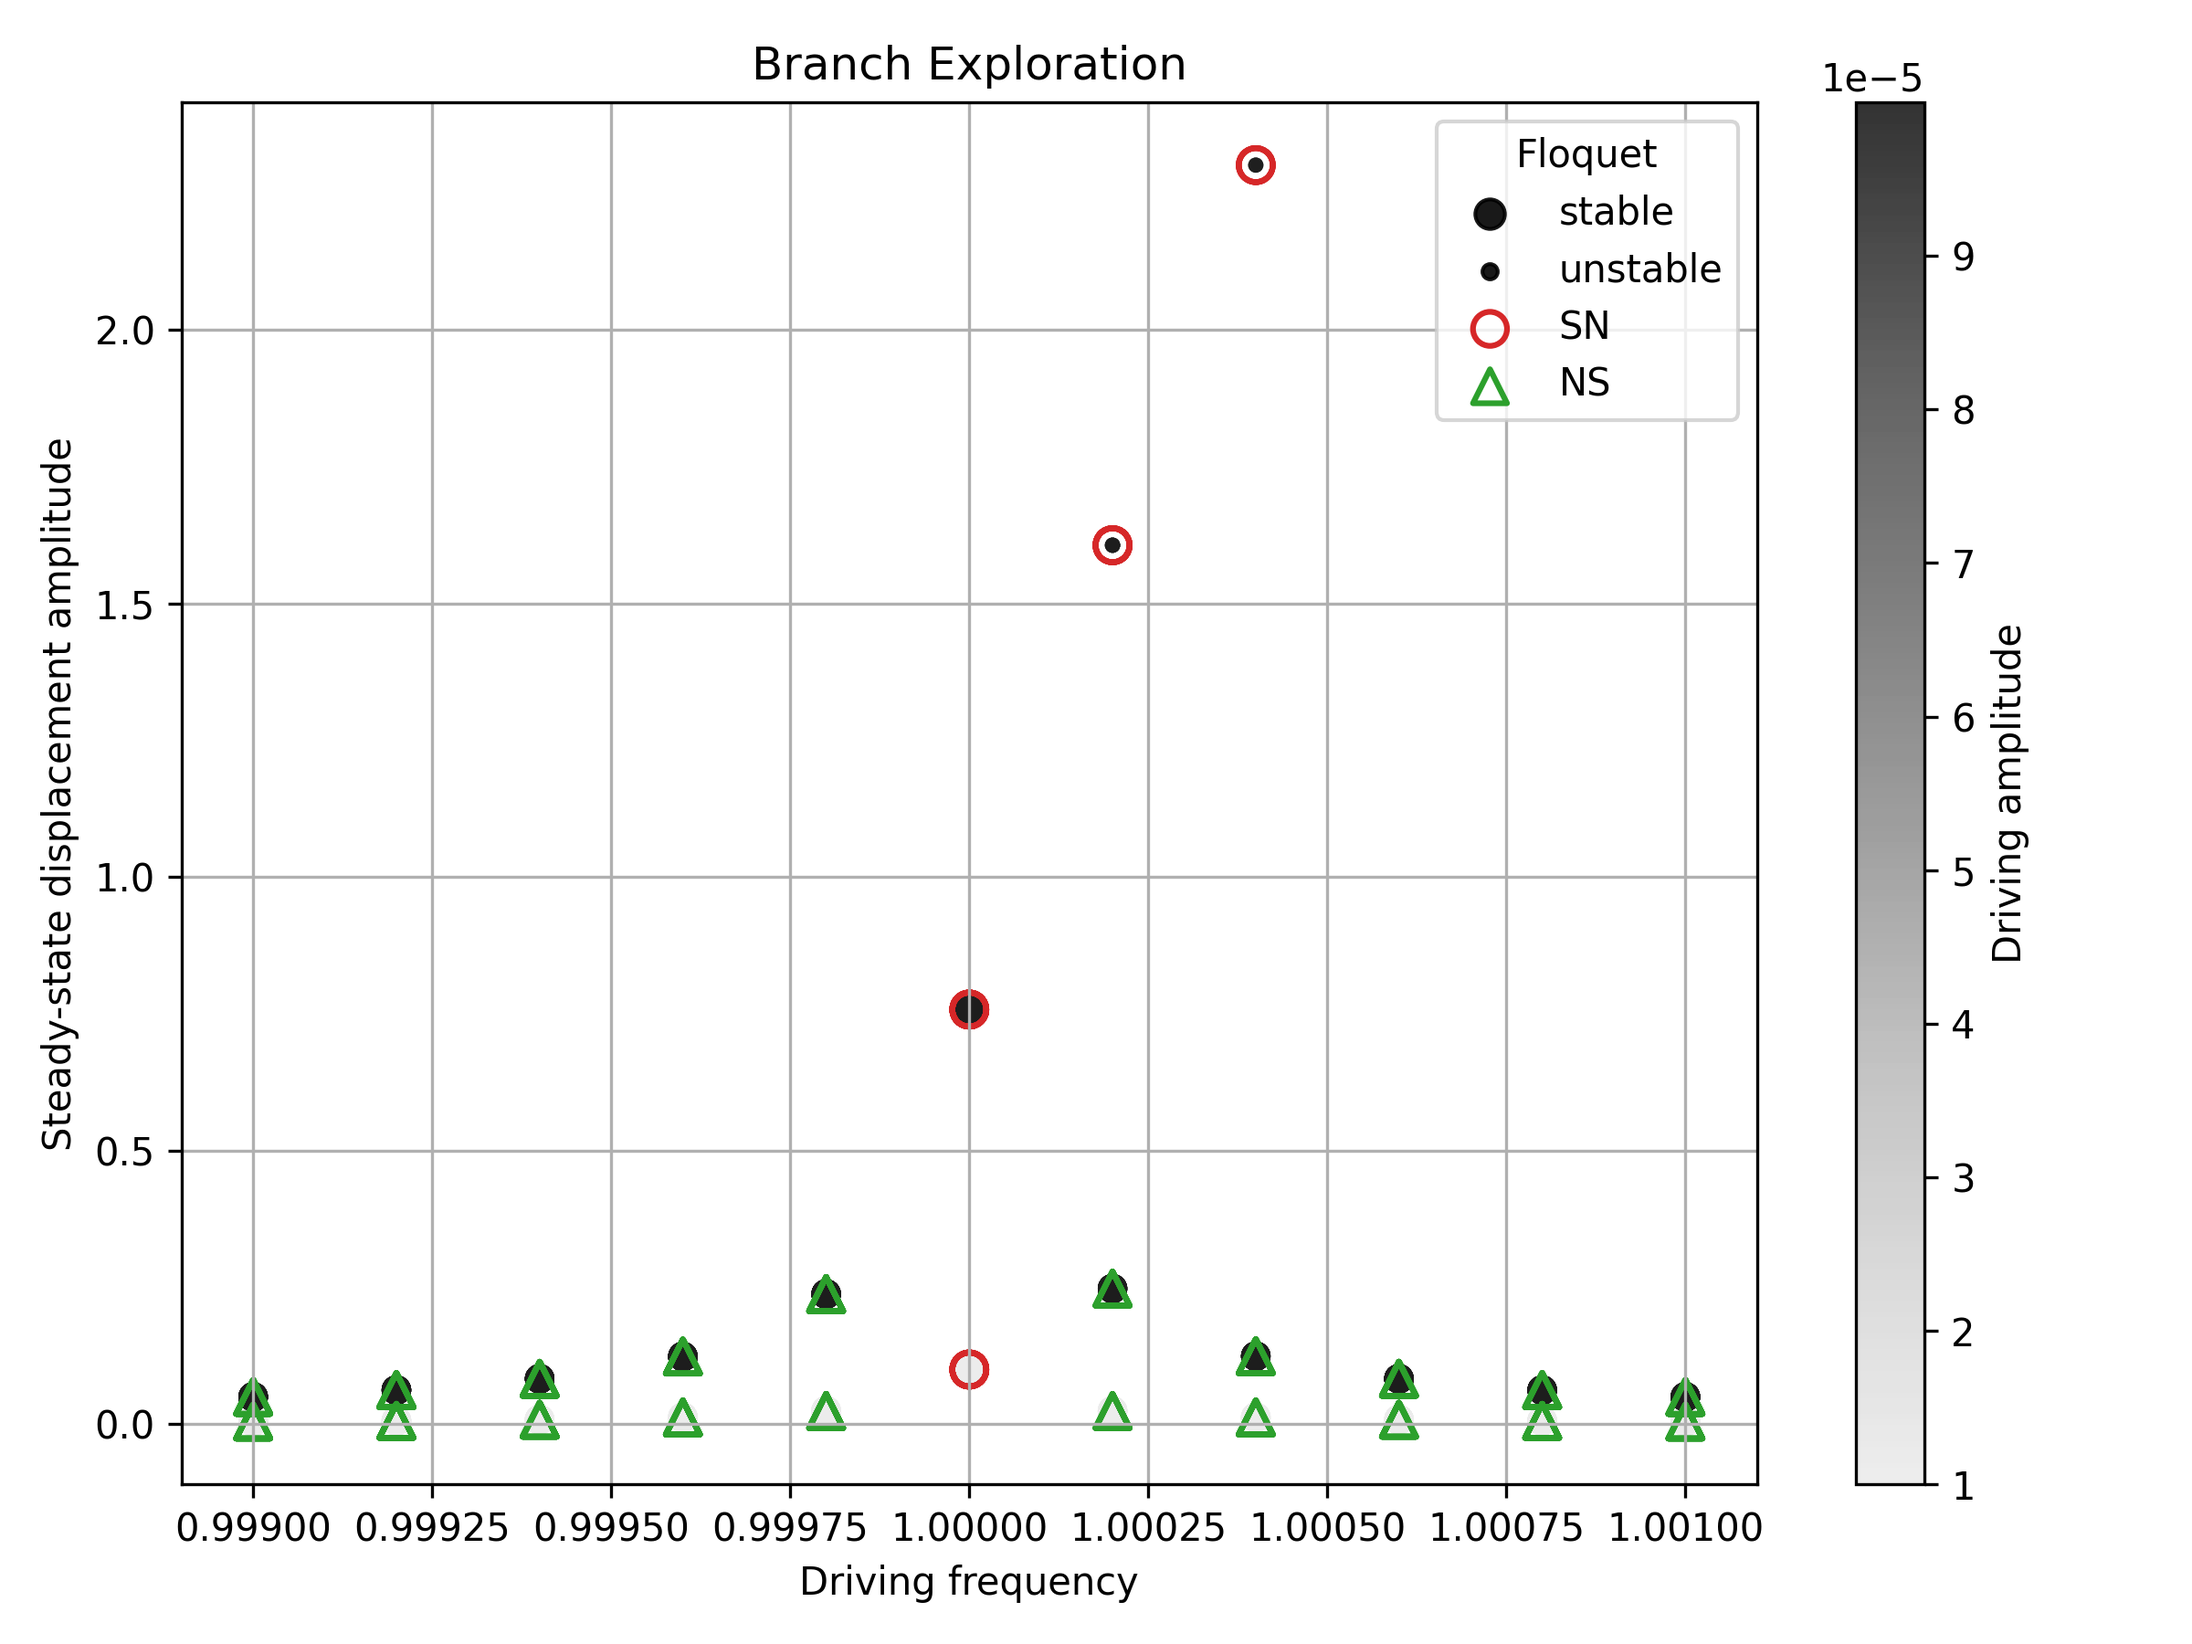
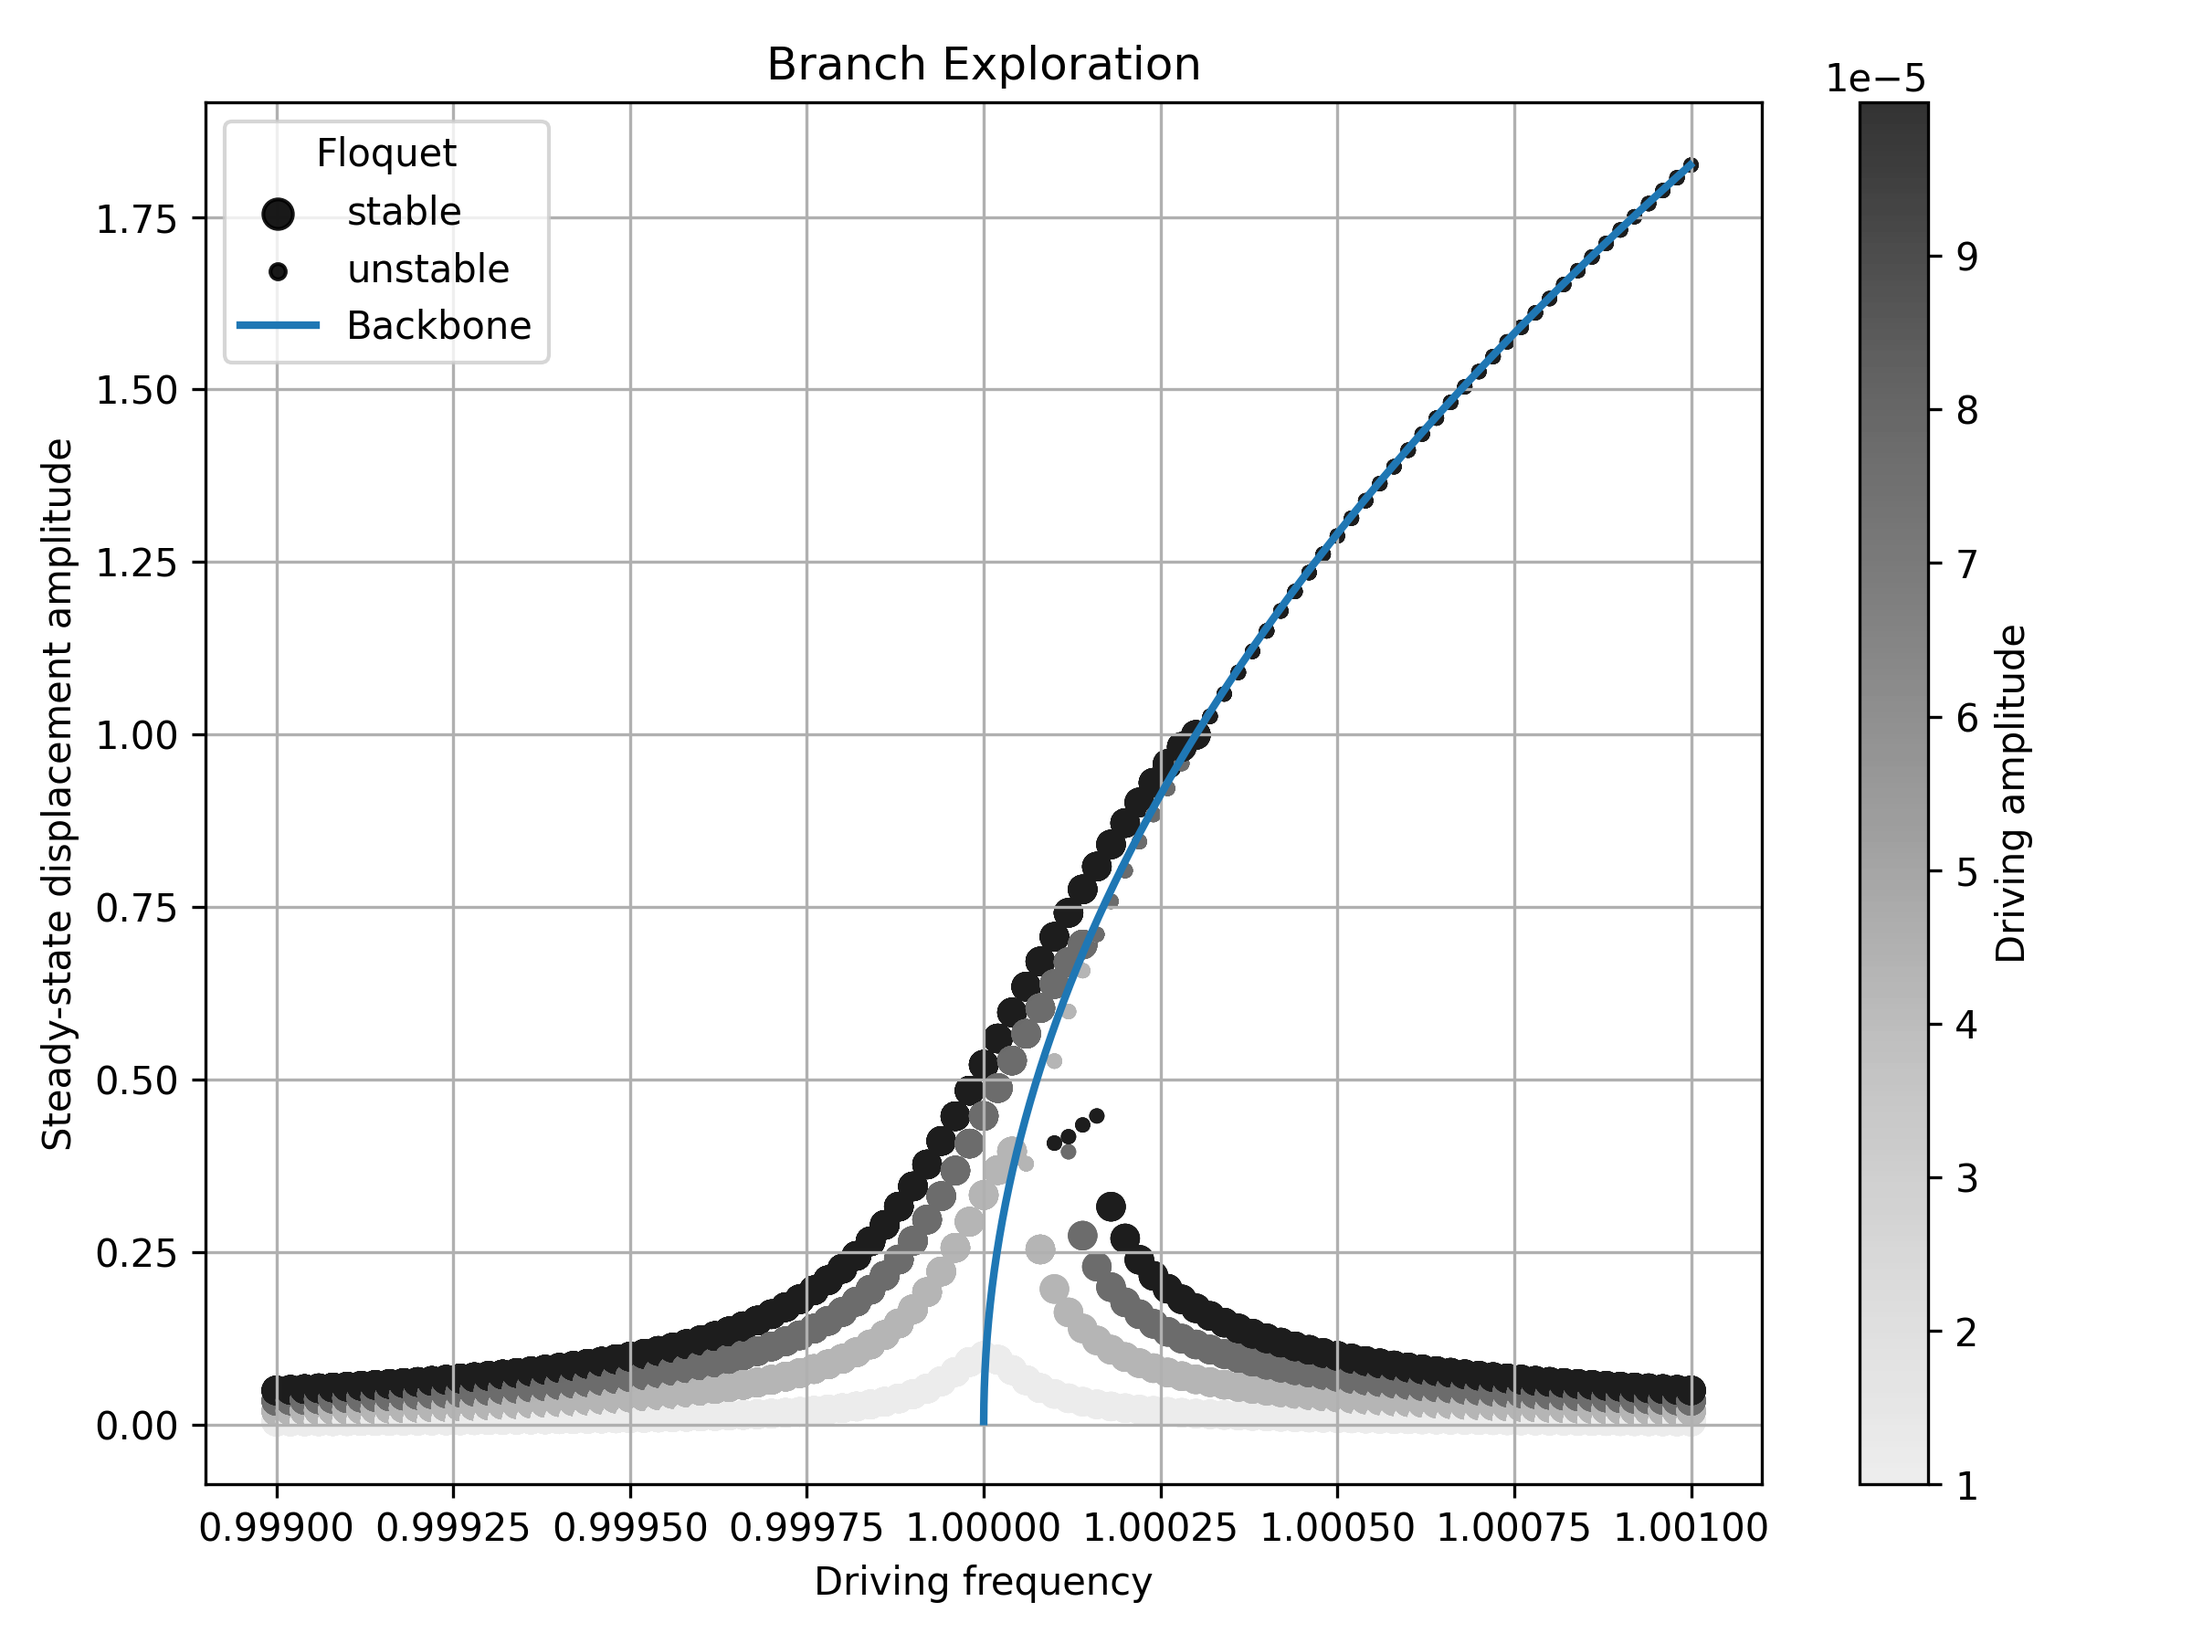
Update plot_branch_exploration function to include backbone parameters and adjust driving frequency in tests

diff --git a/src/oscidyn/utils/plotting.py b/src/oscidyn/utils/plotting.py
@@ -21,9 +21,13 @@ def plot_branch_exploration(
     stable_size=60,
     unstable_size=16,
     tol_inside=1e-4,
-    annotate_bifurcations=True,
+    annotate_bifurcations=False,
     cmap_lo=0.15,     # <- raise this if you want darker minimum
     cmap_hi=0.90,
+    backbone=None,            # dict like {"f0": <Hz>, "beta": <nonlinear coeff>}
+    backbone_n=300,           # number of points on the curve
+    backbone_kwargs=None,     # e.g. {"lw": 2, "ls": "--", "label": "Backbone"},
+    title="Branch Exploration",
 ):
     # flatten grids
     freq_vals = jnp.asarray(coarse_drive_freq_mesh).ravel()
@@ -84,6 +88,31 @@ def plot_branch_exploration(
     stable_dot   = ax.scatter([], [], s=stable_size,   c="k", alpha=0.9, label="stable")
     unstable_dot = ax.scatter([], [], s=unstable_size, c="k", alpha=0.9, label="unstable")
     legend_handles = [stable_dot, unstable_dot]
+    
+    if backbone is not None:
+        f0   = float(backbone["f0"])
+        beta = float(backbone["beta"])
+        # amplitude range from your data (ensure finite, start at 0)
+        A_min = float(np.nanmin(np.asarray(x_max)))
+        A_max = float(np.nanmax(np.asarray(x_max)))
+        if not np.isfinite(A_min) or not np.isfinite(A_max):
+            A_min, A_max = 0.0, 1.0
+        A_min = max(0.0, A_min)
+
+        A_grid = np.linspace(A_min, A_max, backbone_n)
+        #k = 3/(16*np.pi**2)  # if your x-axis is in Hz
+        k = 3/4            # if your x-axis is in rad/s
+        inside = f0**2 + k * beta * A_grid**2   # or use ω0, ω if in rad/s
+
+
+        mask = inside > 0.0                    # keep only real frequencies
+        f_grid = np.sqrt(inside[mask])
+        A_plot = A_grid[mask]
+
+        default_style = {"lw": 2, "label": "Backbone"}
+        default_style.update(backbone_kwargs or {})
+        (h_bb,) = ax.plot(f_grid, A_plot, **default_style)
+        legend_handles.append(h_bb)
 
     # optional bifurcation overlays
     if annotate_bifurcations:
@@ -117,7 +146,7 @@ def plot_branch_exploration(
 
     ax.set_xlabel("Driving frequency")
     ax.set_ylabel("Steady-state displacement amplitude")
-    ax.set_title("Branch Exploration")
+    ax.set_title(title)
     ax.grid(const.PLOT_GRID)
     plt.tight_layout()
     plt.savefig("branch_exploration.png", dpi=300)

diff --git a/tests/frequency_sweep/test_frequency_sweep.py b/tests/frequency_sweep/test_frequency_sweep.py
@@ -5,13 +5,13 @@ from jax import numpy as jnp
 import oscidyn
 import time
 
-Q, omega_0, gamma = 10000.0, 1.0, 0.0002
+Q, omega_0, gamma = 10000.0, 1.0, 0.0008
 full_width_half_max = omega_0 / Q
 
 MODEL = oscidyn.BaseDuffingOscillator.from_physical_params(Q=jnp.array([Q]), gamma=jnp.array([gamma]), omega_0=jnp.array([omega_0]))
 SWEEP_DIRECTION = oscidyn.SweepDirection.FORWARD
-DRIVING_FREQUENCY = jnp.linspace((1.0-10*full_width_half_max), (1.0+10*full_width_half_max), 11) 
-DRIVING_AMPLITUDE = jnp.linspace(0.1* omega_0**2/Q, 1.0*omega_0**2/Q, 2)
+DRIVING_FREQUENCY = jnp.linspace((1.0-10*full_width_half_max), (1.0+10*full_width_half_max), 101) 
+DRIVING_AMPLITUDE = jnp.linspace(0.1* omega_0**2/Q, 1.0*omega_0**2/Q, 4)
 MULTISTART = oscidyn.LinearResponseMultistart(init_cond_shape=(11, 8), linear_response_factor=1.5)
 SOLVER = oscidyn.MultipleShootingSolver(max_steps=1000, m_segments=5, max_shooting_iterations=500, rtol=1e-9, atol=1e-12, multistart=MULTISTART, verbose=True)
 PRECISION = oscidyn.Precision.DOUBLE
@@ -38,8 +38,10 @@ drive_freq_mesh, drive_amp_mesh, init_disp_mesh, init_vel_mesh = MULTISTART.gene
     MODEL, DRIVING_FREQUENCY, DRIVING_AMPLITUDE
 )
 
+title = f"Frequency sweep: Duffing (Q={Q}, $\gamma$={gamma})"
+
 oscidyn.plot_branch_exploration(
-    drive_freq_mesh, drive_amp_mesh, frequency_sweep, tol_inside=1e-2
+    drive_freq_mesh, drive_amp_mesh, frequency_sweep, tol_inside=1e-2, backbone={"f0": omega_0, "beta": gamma}, title=title
 )
 
 # 1. Doe een simulatie met Q=1e6, bepaal hoeveel frequency steps nodig zijn voor een goede resolutie (half width bandwidth)
